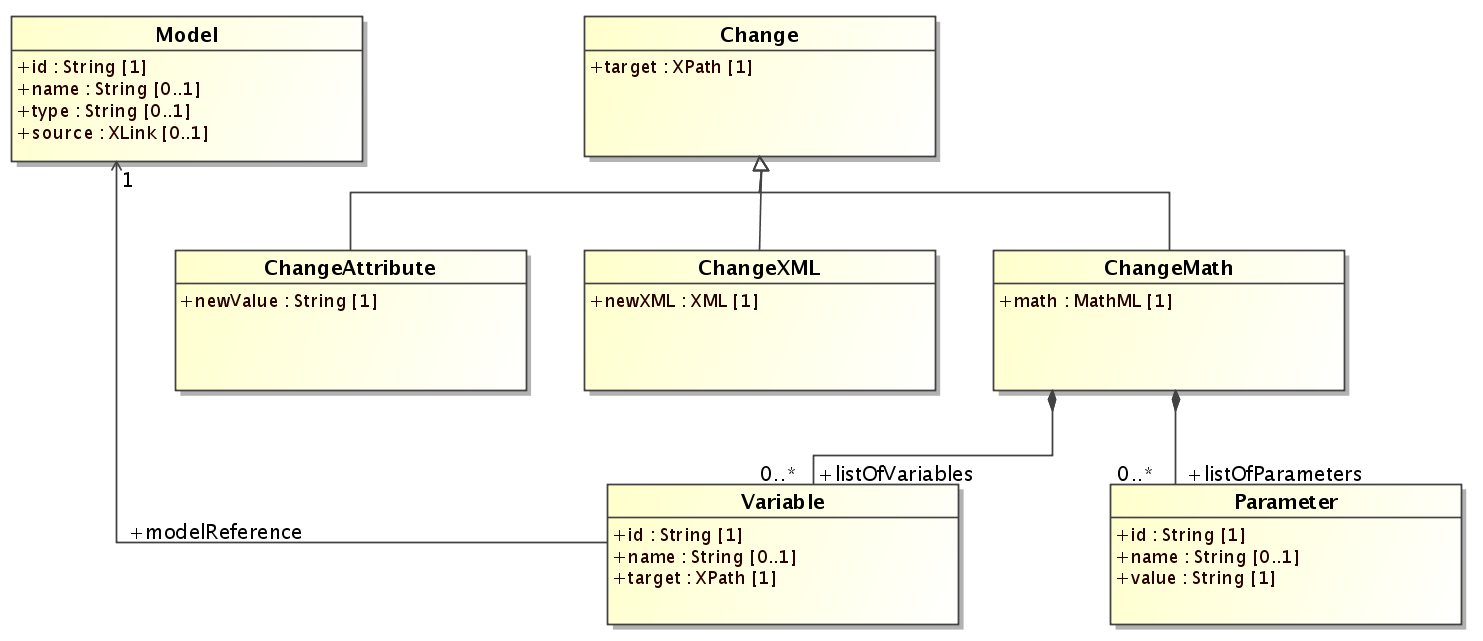
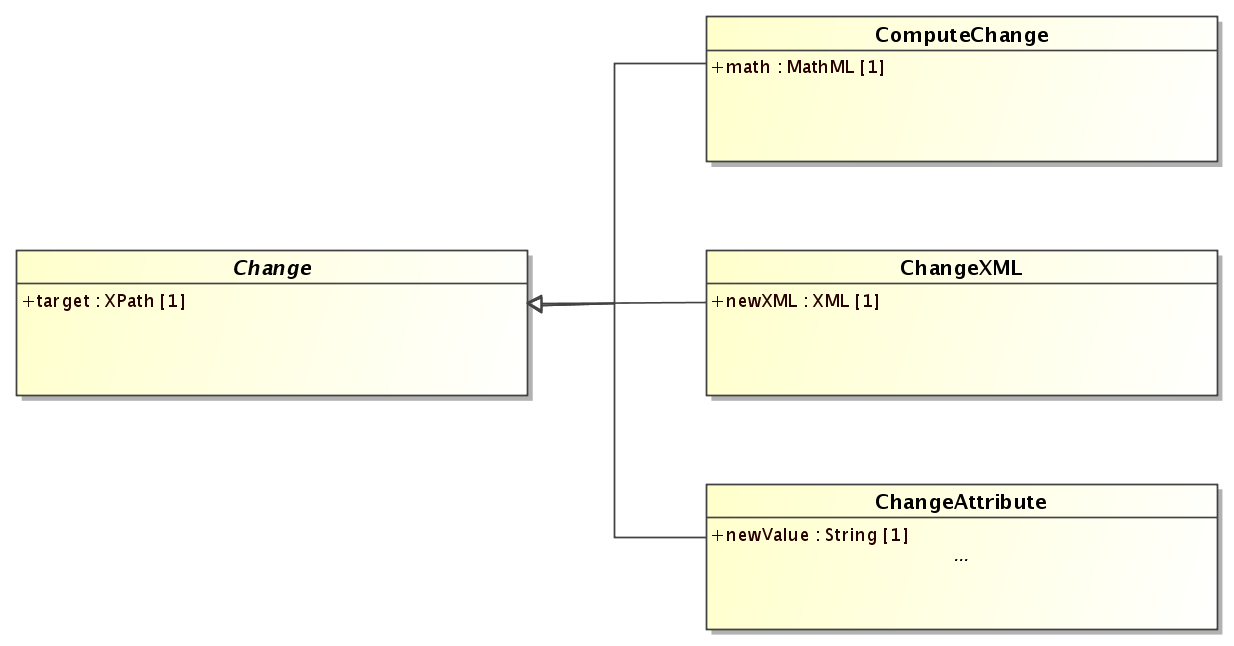
updated spec: changeMath is now computeChange

diff --git a/sed-ml/specification/trunk/level-1/version-1/sources/changeMathClass.tex b/sed-ml/specification/trunk/level-1/version-1/sources/changeMathClass.tex
@@ -1,8 +1,8 @@
 % ChangeAttribute Class
-\label{class:changeMath}
-The \concept{ChangeMath} is used to make changes on any element of the XML file addressable by an XPath expression, where the changes are described by mathematical expressions through MathML. 
+\label{class:computeChange}
+The \concept{ComputeChange} is used to make changes on any element of the XML file addressable by an XPath expression, where the changes are described by mathematical expressions through MathML. 
 
-\tabtext{changeMath}{ChangeMath}
+\tabtext{computeChange}{ComputeChange}
 %
 \begin{table}[ht]
 \center
@@ -27,8 +27,8 @@ variable & \refpage{class:variable}\\
 parameter & \refpage{class:parameter}\\
 \hline
 \end{tabular}
-\label{tab:changeMath}
-\caption{\tabcap{ChangeMath}, \alert{math currently is an attribute, probably should be turned into an element (see listing \ref{lst:changeMath})}}
+\label{tab:computeChange}
+\caption{\tabcap{ComputeChange}, \alert{math currently is an attribute, probably should be turned into an element (see listing \ref{lst:computeChange})}}
 \end{table}
 %
 
@@ -42,24 +42,22 @@ To use model variables for the definition of a mathematical expression, those va
 
 The \element{math} element contains the updated mathematics. 
 
-An example for the definition of an updated mathematical function in SBML is given in listing \ref{lst:changeMath}.
+An example for the definition of an updated mathematical function in SBML is given in listing \ref{lst:computeChange}.
 %
-\begin{myXmlLst}{The changeMath element}{lst:changeMath}
+\begin{myXmlLst}{The computeChange element}{lst:computeChange}
 <model [..]>
-    <changeMath target="/sbml/model/listOfParameters/parameter[@id='w']">
-
+    <computeChange target="/sbml/model/listOfParameters/parameter[@id='w']">
       <listOfVariables>
         <variable id="camkii" name="active calcium/calmoduline kinase II" 
                   target="/sbml/model[@id='calcium']/listOfSpecies/species[@id='KII']" />
         <variable id="w" name="synaptic weight"
                   target="/sbml/model[@id='synapse']/listOfParameters/parameter[@id='w']" />
       <listOfVariables/>
-      <listOfParameter>
+      <listOfParameters>
         <parameter id="w0" name="synaptic weight change" value="1">
         <parameter id="n" name="utrasensitivity to calcium" value="2">
         <parameter id="K" name="sensitivity to calcium" value="1e-6">
-      <listOfVariables/>
-
+      <listOfParameters/>
       <math>
          <apply>
            <plus />
@@ -91,7 +89,7 @@ An example for the definition of an updated mathematical function in SBML is giv
            </apply> 
          </apply>
       </math>
-    </changeMath>
+    </computeChange>
   </listOfChanges>
 </model>
 \end{myXmlLst}

diff --git a/sed-ml/specification/trunk/level-1/version-1/sources/conventions.tex b/sed-ml/specification/trunk/level-1/version-1/sources/conventions.tex
@@ -89,8 +89,8 @@ XML Schema \concept{definitions} create new types, \concept{declarations} define
 Definition of new (simple and complex) types can be based on a number of already existing, prefedined types (string, boolean, float). Simple types are restrictions or extensions of predefined types. Complex types describe how attribues can be assigned to elements and how elements can contain further elements. The SED-ML XML Schema only does make use of complex types.
 An example for a complex type definition is given in listing \ref{lst:complexType}:
 %
-\begin{myXmlLst}{Complex Type definition of the SED-ML \code{changeMath} element}{lst:complexType}
-<xs:element name="changeMath">
+\begin{myXmlLst}{Complex Type definition of the SED-ML \code{computeChange} element}{lst:complexType}
+<xs:element name="computeChange">
  <xs:complexType>
   <xs:sequence>
    <xs:element ref="listOfVariables" />
@@ -102,8 +102,8 @@ An example for a complex type definition is given in listing \ref{lst:complexTyp
 </xs:element>
 \end{myXmlLst}
 %
-It shows the declaration of an element called \code{changeMath} that is used in SED-ML to change mathematical expressions. The element is defined using an \emph{unnamed} complex type which is build of further elements called \code{listOfVariables}, \code{listOfParameters}, and \code{math}. 
-Additionally, the element \code{changeMath} has an attribute \code{target} declared. Please note that the definition of the elements inside the complex type are only referred to and will be found elsewhere in the schema.
+It shows the declaration of an element called \code{computeChange} that is used in SED-ML to change mathematical expressions. The element is defined using an \emph{unnamed} complex type which is build of further elements called \code{listOfVariables}, \code{listOfParameters}, and \code{math}. 
+Additionally, the element \code{computeChange} has an attribute \code{target} declared. Please note that the definition of the elements inside the complex type are only referred to and will be found elsewhere in the schema.
 The nesting of elements in the schema can be expressed using the \code{xs:sequence} (a sequence of elements), \code{xs:choice} (an alternative of elements to choose from), or \code{xs:all} (a set of elements that can occur in any order) concepts. The SED-ML XML Schema make use only of the \code{sequence} of elements. 
 
 \subsubsection{Multiplicities}

diff --git a/sed-ml/specification/trunk/level-1/version-1/sources/referenceRelation.tex b/sed-ml/specification/trunk/level-1/version-1/sources/referenceRelation.tex
@@ -23,10 +23,10 @@ The \concept{modelReference} might occur as a relation between a \hyperref[class
 
 If pre-processing needs to be applied to a model before simulation the model update can be specified by creating a \hyperref[class:Change]{Change} object. If the change is calculated using mathematics, variables need to be defined. To refer to an existing entity in a defined \hyperref[class:model]{Model}, the \concept{modelReference} is used. Listing \ref{lst:reference1} shows the definition of a model reference.
 %
-\begin{myXmlLst}{SED-ML \code{modelReference} definition inside a \code{changeMath} element}{lst:reference1}
+\begin{myXmlLst}{SED-ML \code{modelReference} definition inside a \code{computeChange} element}{lst:reference1}
 <model id="m0001" [..]>
  <listOfChanges>
-   <changeMath>
+   <computeChange>
     <listOfVariables>
      <variable id="v1" modelReference="cellML" target="/cellml:model/cellml:component[@cmeta:id='MP']/cellml:variable[@name='vsP']/@initial_value" />
     </listOdVariables>
@@ -34,13 +34,13 @@ If pre-processing needs to be applied to a model before simulation the model upd
     <math>
      [CALCULATION OF CHANGE]
     </math>
-   </changeMath>
+   </computeChange>
  </listOfChanges>
  [..]
 </model>
 \end{myXmlLst}
 %
-In the example, a change using mathematical functions is defined for model \code{m0001}. In the \code{changeMath} a list of variables is defined. One of those variable is \code{v1} which is defined in another model, namely \code{cellML}. To identify the variable in model \code{cellML} the XPath expression given in the \hyperref[sec:target]{target} attribute.
+In the example, a change using mathematical functions is defined for model \code{m0001}. In the \code{computeChange} a list of variables is defined. One of those variable is \code{v1} which is defined in another model, namely \code{cellML}. To identify the variable in model \code{cellML} the XPath expression given in the \hyperref[sec:target]{target} attribute.
 
 The \concept{modelReference} is as well used to define that a \hyperref[class:model]{Model} object is used in a particular  \hyperref[class:task]{Task}. 
 Listing \ref{lst:reference2} shows how this can be done for a sample SED-ML document.

diff --git a/sed-ml/specification/trunk/level-1/version-1/sources/changeClass.tex b/sed-ml/specification/trunk/level-1/version-1/sources/changeClass.tex
@@ -4,7 +4,7 @@ SED-ML not only allows to use the sole model for simlation, but on the contrary 
 \begin{enumerate}
  \item{Changes on attributes of the model's XML representation (\hyperref[class:changeAttribute]{ChangeAttribute})}
  \item{Changes on any XML snippet of the model's XML representation (\hyperref[class:changeXml]{ChangeXML})}
- \item{Applying changes based on mathematical calculations (\hyperref[class:changeMath]{ChangeMath})} 
+ \item{Applying changes based on mathematical calculations (\hyperref[class:computeChange]{ComputeChange})} 
  \end{enumerate}
 
 The \concept{Change} class is abstract and serves as the container for all different types of changes.
@@ -32,7 +32,7 @@ notes & \refpage{class:notes}\\
 annotation & \refpage{class:annotation}\\
 changeXML & \refpage{class:changeXml}\\
 changeAttribute & \refpage{class:changeAttribute}\\
-changeMath & \refpage{class:changeMath}\\
+computeChange & \refpage{class:computeChange}\\
 \hline
 \end{tabular}
 \label{tab:change}
@@ -42,7 +42,7 @@ changeMath & \refpage{class:changeMath}\\
 
 Each Change has a \hyperref[sec:target]{target} attribute that holds a valid XPath expression pointing to the XML element or XML attribute that is to undergo the defined changes.
 
-The \concept{Change} class itself is abstract, a SED-ML document therefor will always contain one of the classes derived from \concept{Change}; those currently are the aforementioned classes  \hyperref[class:changeAttribute]{ChangeAttribute}, \hyperref[class:changeXml]{ChangeXML}, or \hyperref[class:changeMath]{ChangeMath}.
+The \concept{Change} class itself is abstract, a SED-ML document therefor will always contain one of the classes derived from \concept{Change}; those currently are the aforementioned classes  \hyperref[class:changeAttribute]{ChangeAttribute}, \hyperref[class:changeXml]{ChangeXML}, or \hyperref[class:computeChange]{ComputeChange}.
 
 %A typical example for a model update (or change) is the assignment of new parameter values to the model. 
 

diff --git a/sed-ml/specification/trunk/level-1/version-1/sources/listOfVariables.tex b/sed-ml/specification/trunk/level-1/version-1/sources/listOfVariables.tex
@@ -1,5 +1,5 @@
 \label{sec:listOfVariables}
-In order to refer to existing entities inside a model, these variables have to be referrable to from the simulation experiment description. SED-ML uses the XML \concept{listOfVariable} element as a container for all necessary variables that need to be defined in order to either describe a change in the mathematics of a model (\hyperref[class:changeMath]{ChangeMath}) or to define a data generator using existing variables from a given task (\hyperref[lass:dataGenerator]{dataGeneratorClass}). \fig{listOfVariables} shows the use of the \concept{listOfVariables} container. The listOfVariables is optional and may contain zero to many models. 
+In order to refer to existing entities inside a model, these variables have to be referrable to from the simulation experiment description. SED-ML uses the XML \concept{listOfVariable} element as a container for all necessary variables that need to be defined in order to either describe a change in the mathematics of a model (\hyperref[class:computeChange]{ComputeChange}) or to define a data generator using existing variables from a given task (\hyperref[lass:dataGenerator]{dataGeneratorClass}). \fig{listOfVariables} shows the use of the \concept{listOfVariables} container. The listOfVariables is optional and may contain zero to many models. 
 
 % Fig: sed model
 \sedfig{listOfVariables}{The SED-ML listOfVariables container}{fig:listOfVariables}

diff --git a/sed-ml/specification/trunk/level-1/version-1/sources/syntax.tex b/sed-ml/specification/trunk/level-1/version-1/sources/syntax.tex
@@ -87,7 +87,7 @@ provide a BNMP diagram in Appendix \ref{sec:overview} and an XML Schema in
   \subsubsection{ChangeAttribute}
   \input{sources/changeAttributeClass}
 
-  \subsubsection{ChangeMath}
+  \subsubsection{ComputeChange}
   \input{sources/changeMathClass}
 
 % ~~~~~~~~~~~~~~~~~~~~~~~~~~~~~~~~~~~~~~~~~~~~~~~~~~~~~~~~~~~~~~~~~~~~~~~~~~~~~~~~~~~~~~~~~~~~~~~~~~~~~~~~~~~~
